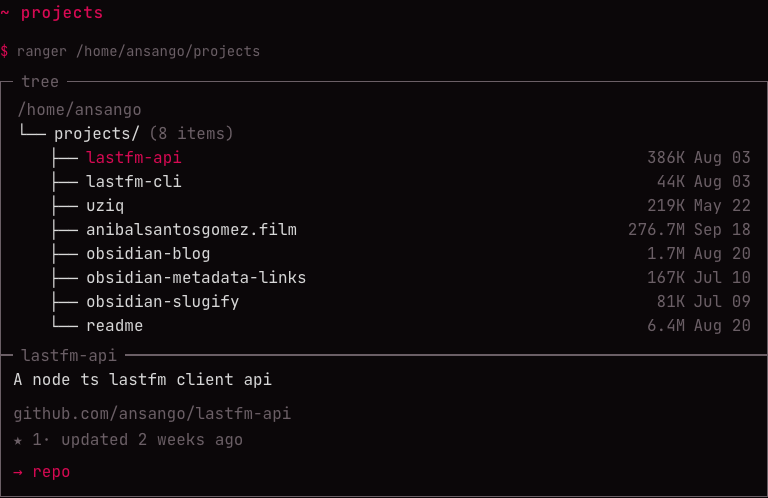
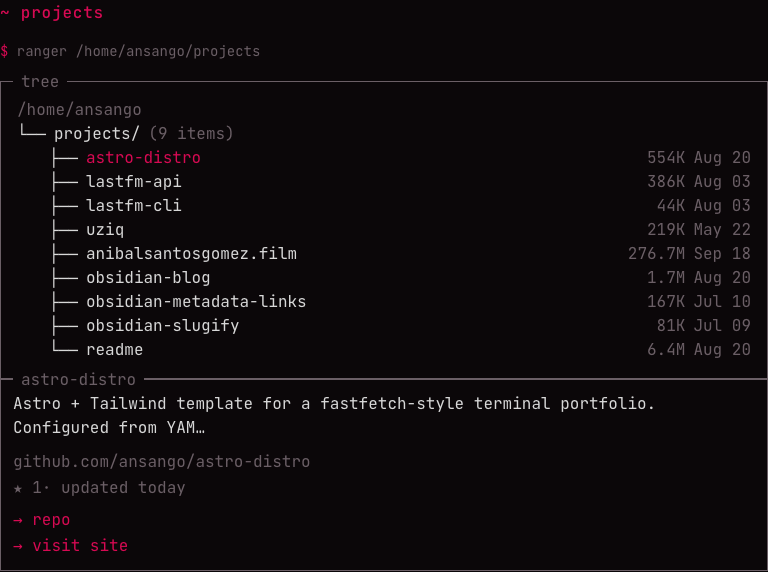
chore: recapture screenshots from production (no Astro dev toolbar)
Run with SCREENSHOT_BASE=https://astro-distro.pages.dev so the
Astro dev bar at the bottom doesn't appear in the captures.

diff --git a/docs/astro-theme-description.md b/docs/astro-theme-description.md
@@ -1,0 +1,41 @@
+A fastfetch-inspired single-page portfolio template for **Astro 7** + **Tailwind CSS 4**, themed around a `fastfetch` / `neofetch`-style terminal session.
+
+## What's in the box
+
+- **26 distro color schemes** — `debian`, `arch`, `ubuntu`, `kali`, `fedora`, `nixos`, `macos`, `windows` and 18 more. Switchable from the header, persisted in `localStorage`, no flash on reload.
+- **4 TUI-style sections** built as Astro components:
+  - `lazygit` — bio + lazygit-style status block
+  - `ranger` — projects tree + detail (sidebar layout)
+  - `mutt` — contact inbox with date + `mailto:` links
+  - `btop` — hardware specs, CPU, memory, peripherals
+- **ASCII logos** fetched from [fastfetch-cli/fastfetch](https://github.com/fastfetch-cli/fastfetch) and cached locally in `.cache/logos/`.
+- **Live uptime** computed client-side from a `booted_at` timestamp.
+- **Custom 404 page** styled as `bash: command not found`.
+
+## Content lives in YAML, not in code
+
+- `src/data.yml` — site config (SEO, current system, hardware, about, uses, contact, projects UI, default theme, footer status)
+- `src/systems.yml` — the 26 distros with colors, kernel, shell, DE, WM, theme, terminal, font, package manager
+- `scripts/sync.ts` reads both and writes `src/config.json` (gitignored) by merging with **GitHub API** data for every URL in your projects queue
+- Local GitHub response cache (`.cache/sync.json`, 1h TTL) + optional `GH_TOKEN` for 5000 req/h
+- **Skip-if-unchanged**: sync is a no-op when neither YAML changed since last run
+
+## SEO out of the box
+
+Open Graph + Twitter Card with explicit image dimensions, JSON-LD `WebSite` schema with nested `Person` author block (auto-built from `site.social`), `<link rel="canonical">`, `apple-touch-icon`, `theme-color`, `robots.txt`. All configurable from `site.*` in `data.yml`.
+
+## DX
+
+- Astro 7, Tailwind 4 via Vite plugin, Bun runtime
+- TypeScript strict mode, `@/*` path alias everywhere
+- Biome for lint + format
+- `bun test` for sync helpers
+- GitHub Actions workflow builds on push to `data.yml` / `systems.yml`, auto-runs sync via `prebuild` hook
+
+## Customizing for your own portfolio
+
+1. Edit `src/data.yml#site` with your title, description, URL, social handles
+2. Add your GitHub repo URLs to `data.yml#projects`
+3. Edit `data.yml#about.bio`, `paths`, `contact.inbox`
+4. Replace `public/og.png` (1200×630) and `public/apple-touch-icon.png`
+5. `bun install && bun run dev`
